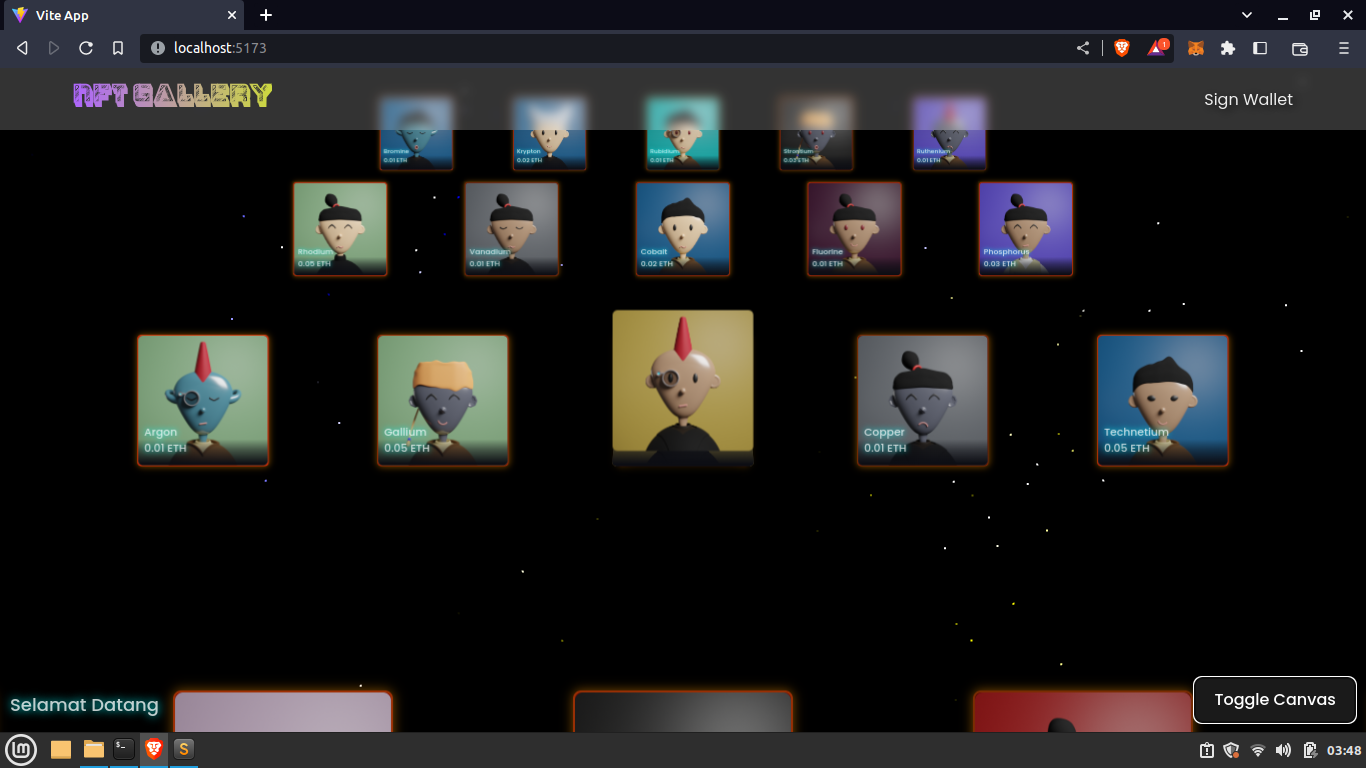
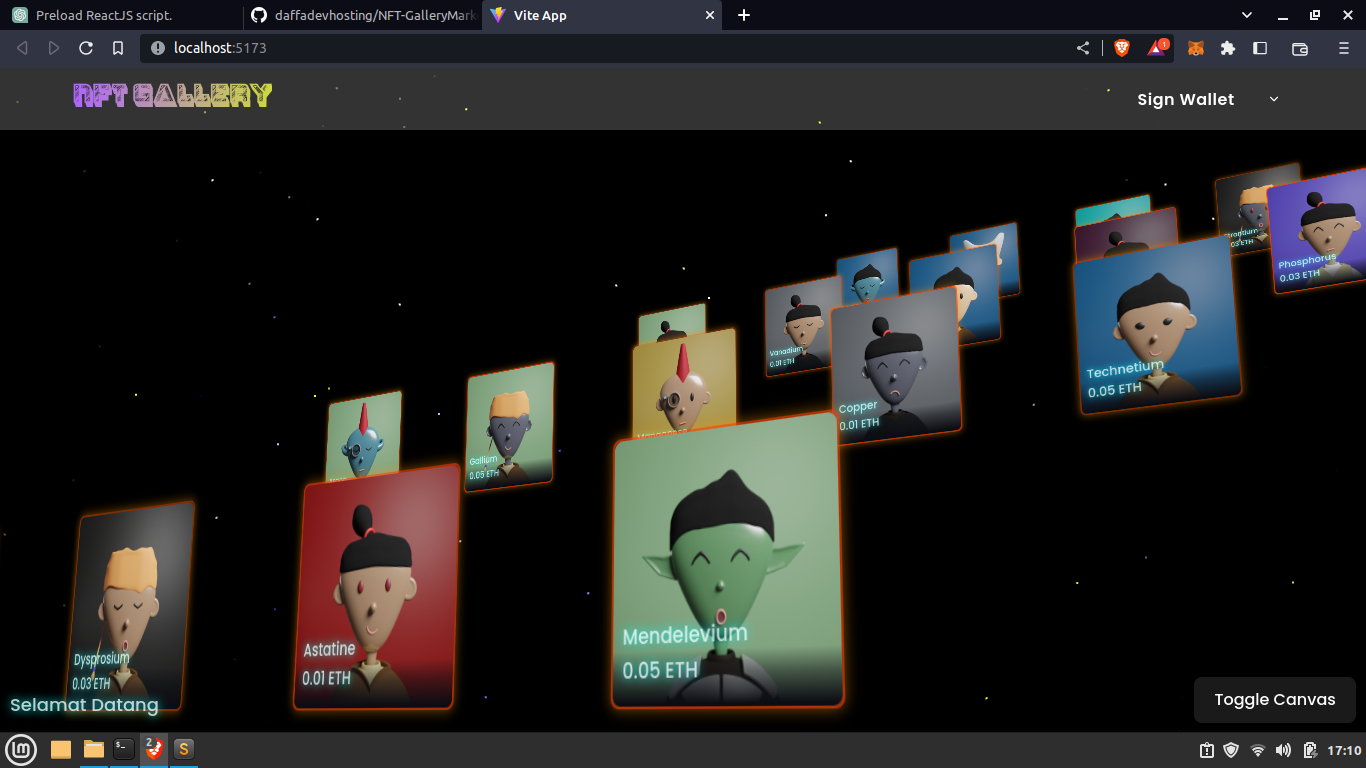
update

diff --git a/src/App.jsx b/src/App.jsx
@@ -1,28 +1,10 @@
 import { ConnectWallet } from "@thirdweb-dev/react";
 import Header from './components/Header';
-import PreloadScreen from './components/mainScreen';
-import "./assets/custom.css";
 
 export default function Home() {
-
-  const [isLoaded, setIsLoaded] = useState(false);
-
-  useEffect(() => {
-    // Perform any async tasks necessary for the preload
-    setTimeout(() => {
-      setIsLoaded(true);
-    }, 5000);
-  }, []);
-
   return (
-    <div>
-      {isLoaded ? (
-    <div className="container">
-        <Header />
-    </div>
-      ) : (
-        <PreloadScreen />
-      )}
-    </div>
+    <>
+    <Header />
+    </>
   );
 }

diff --git a/src/components/TimeLine.jsx b/src/components/TimeLine.jsx
@@ -1,0 +1,14 @@
+import react from 'react';
+import { gsap } from "gsap";
+import { ScrollTrigger } from "gsap/ScrollTrigger";
+import { ScrollToPlugin } from "gsap/ScrollToPlugin";
+import '../assets/custom.css';
+
+gsap.registerPlugin(ScrollTrigger, ScrollToPlugin, DrawSVGPlugin);
+
+export default TimeLine() {
+return (
+<>
+</>
+    )
+}

diff --git a/index.html b/index.html
@@ -10,8 +10,8 @@
     </style>
   </head>
   <body>
-    <canvas id="webGL"></canvas>
     <div id="root"></div>
+    <canvas id="webGL"></canvas>
     <div id="menu"></div>
     <p class="title">Selamat Datang</p>
     <script type="module" src="./webGL.jsx"></script>
